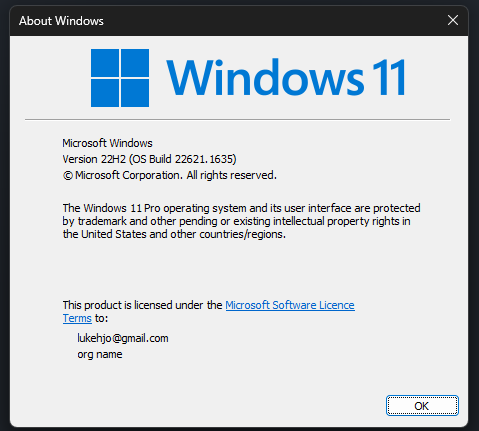
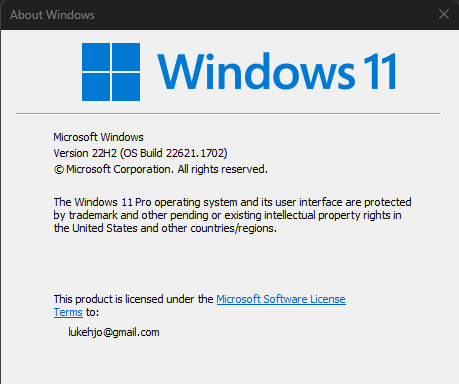
Updated Winver & Version.

Changed region(s): [[0.0, 0.0312, 1.0, 1.0], [0.122, 0.3125, 0.915, 0.625], [0.122, 0.6875, 0.7625, 0.875]]

diff --git a/render/winver.md b/render/winver.md
@@ -1,4 +1,4 @@
-### **Version 22H2 (0S Build 22621.1635)**
+### **Version 22H2 (0S Build 22621.1702)**
 
 <img src="/assets/winver.png">
 

diff --git a/render/version.md b/render/version.md
@@ -1,2 +1,2 @@
-### **Version 0.0.3, 04/05/2023**
+### **Version 0.1, 18/05/2023**
 
